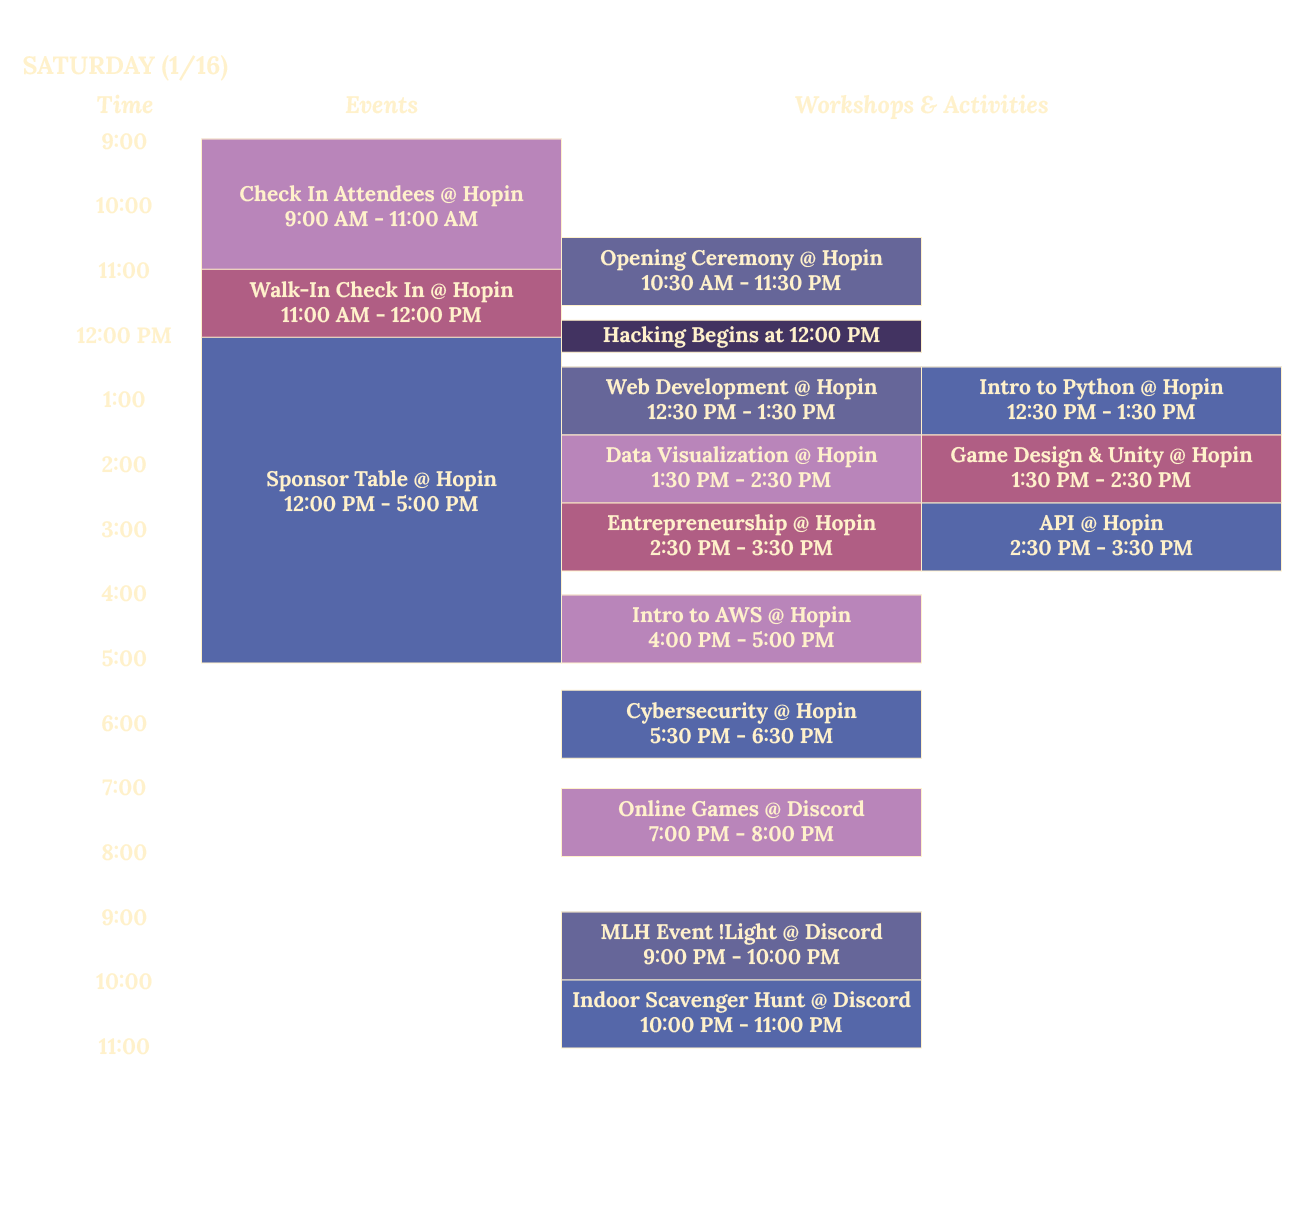
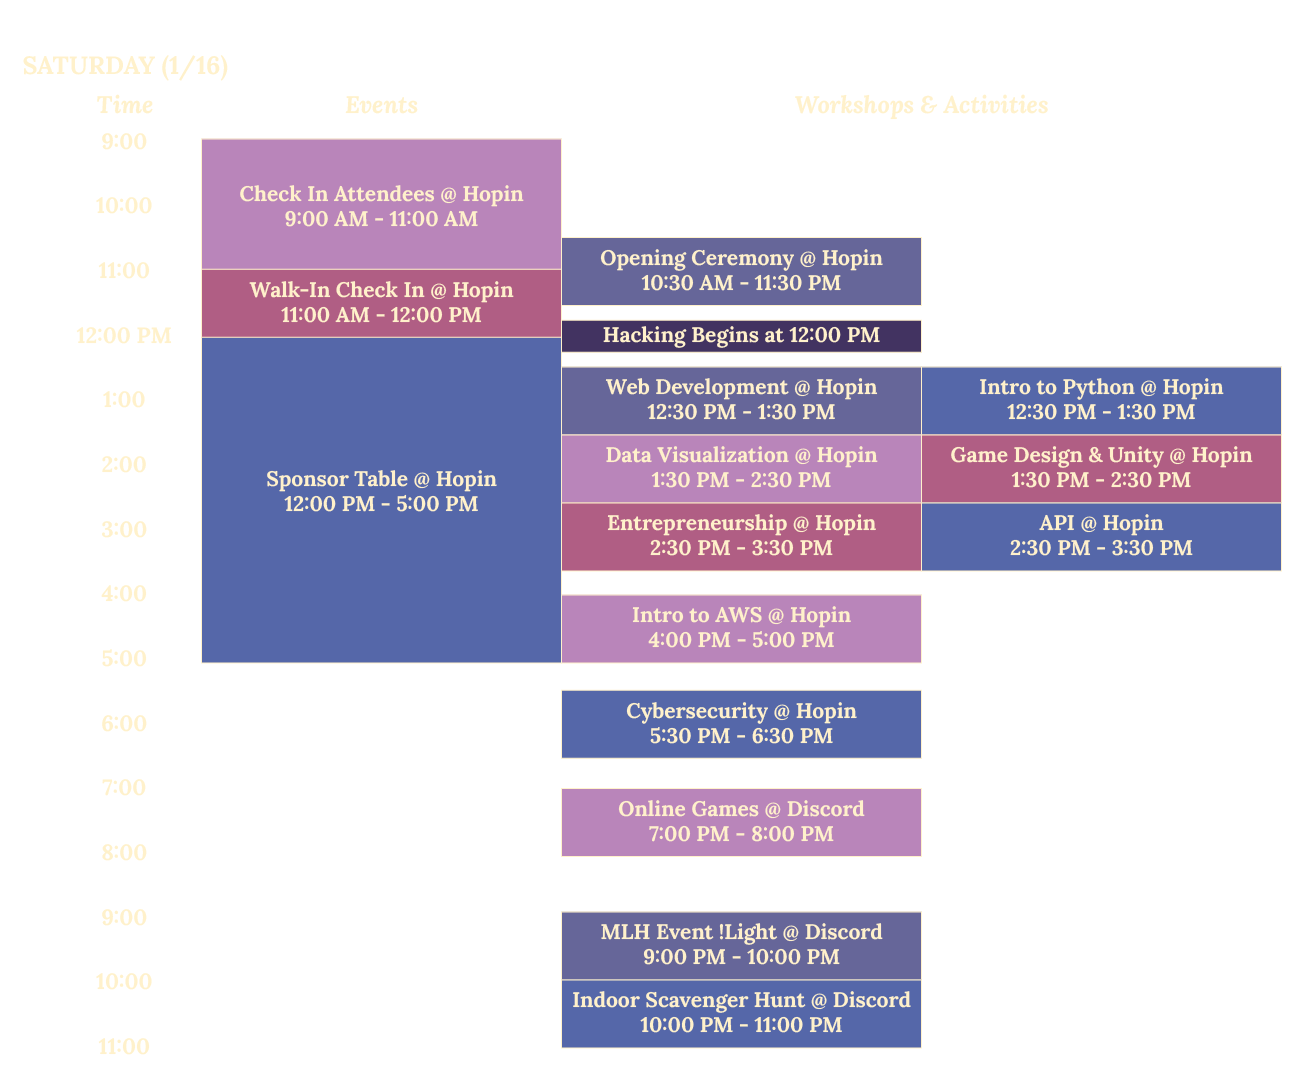
schedule spacing

diff --git a/Assets/CSS/index.css b/Assets/CSS/index.css
@@ -162,7 +162,7 @@ nav span a:hover {
 .scheduleChart {
 	width: 55%;
 	margin: 2% 22.5%;
-	margin-bottom: 5%;
+	/* margin-bottom: 5%; */
 }
 
 #sheet {
@@ -1293,10 +1293,13 @@ span .navbar-toggler-icon {
 	#countdown {
 		width: 62%;
 	}
+	.top {
+		margin-bottom: 2%;
+	}
 	.scheduleChart {
 		width: 80%;
 		margin: 2% 10%;
-		margin-bottom: 15%;
+		/* margin-bottom: 10%; */
 	}
 	#quickIcon #simpleEmail {
 		display: none;
@@ -1453,7 +1456,7 @@ nav span a:hover {
 .scheduleChart {
 	width: 100%;
 	margin: 2% auto;
-	margin-bottom: 15%;
+	/* margin-bottom: 15%; */
 }
 
 	#balloonB {

diff --git a/schedule_index.html b/schedule_index.html
@@ -89,7 +89,7 @@
           </div> -->
         <!-- </div>
     </div> -->
-	<img class="scheduleChart" id="top" src="final schedule 1-01.png" alt="">
+	<img class="scheduleChart top" id="top" src="final schedule 1-01.png" alt="">
 	<img class="scheduleChart" id="bot" src="final schedule 2-01.png" alt="">
     <!-- <img class="scheduleChart" src="sunday.png" alt=""> -->
     
